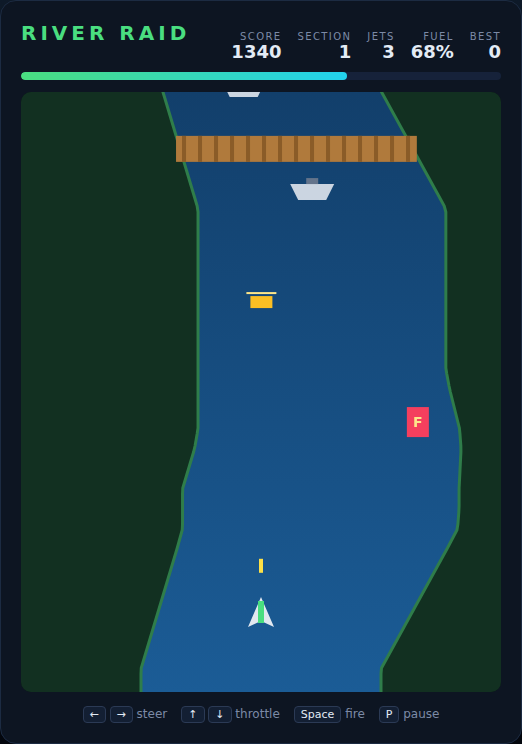
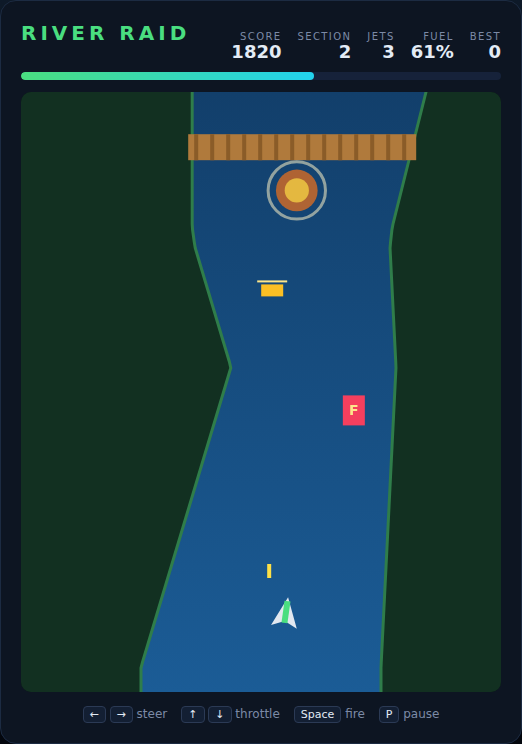
Polish River Raid: explosion feedback and a banking jet
- Destroyed targets and crashes now bloom a short orange/yellow blast.
  Blasts are decorative, so they age on the render clock rather than in
  step(), which keeps the simulation (and the tests that drive it) clean.
- The jet banks into its turns.
- Refresh the screenshot to show a bridge run, a kill and a shot in flight.

Claude-Session: https://claude.ai/code/session_016p9zduRNpubvt63n58JXxP

diff --git a/RiverRaid/game.js b/RiverRaid/game.js
@@ -63,6 +63,7 @@ var distance = 0;
 var terrain = [];                      // [{ left, right, bridge }]
 var entities = [];
 var missiles = [];
+var blasts = [];                       // purely decorative explosion rings
 
 var player = {
     x: CANVAS_W / 2,
@@ -300,11 +301,24 @@ function hits(missile, e) {
         && Math.abs(missile.x - e.x) < (missile.w + e.w) / 2;
 }
 
+function addBlast(x, worldY, size) {
+    blasts.push({ x: x, worldY: worldY, size: size, life: 0.45, max: 0.45 });
+}
+
 function destroy(e) {
     var index = entities.indexOf(e);
     if (index >= 0) entities.splice(index, 1);
     score += POINTS[e.type] || 0;
+    addBlast(e.x, e.worldY, Math.max(e.w, e.h) * (e.type === 'bridge' ? 0.5 : 0.9));
     if (e.type === 'bridge') section++;
+}
+
+/** Decorative only, so it ages on the render clock rather than inside step(). */
+function ageBlasts(dt) {
+    for (var i = blasts.length - 1; i >= 0; i--) {
+        blasts[i].life -= dt;
+        if (blasts[i].life <= 0) blasts.splice(i, 1);
+    }
 }
 
 function updateMissiles(dt) {
@@ -369,6 +383,7 @@ function resolvePlayer(dt) {
 
 function crash() {
     missiles.length = 0;
+    addBlast(player.x, distance, 34);
     lives--;
 
     if (lives <= 0) {
@@ -436,6 +451,7 @@ function startGame() {
     distance = 0;
     entities = [];
     missiles = [];
+    blasts = [];
     resetTerrain();
 
     player.vx = 0;
@@ -553,6 +569,29 @@ function draw() {
     for (var i = 0; i < entities.length; i++) drawEntity(entities[i]);
     for (var j = 0; j < missiles.length; j++) drawMissile(missiles[j]);
     if (state !== 'idle') drawPlayer();
+    for (var k = 0; k < blasts.length; k++) drawBlast(blasts[k]);
+}
+
+function drawBlast(b) {
+    var t = 1 - b.life / b.max;
+    var y = screenYFor(b.worldY);
+    ctx.save();
+    ctx.fillStyle = '#f97316';
+    ctx.globalAlpha = 1 - t;
+    ctx.beginPath();
+    ctx.arc(b.x, y, b.size * (0.35 + 0.55 * t), 0, Math.PI * 2);
+    ctx.fill();
+    ctx.fillStyle = '#fde047';
+    ctx.beginPath();
+    ctx.arc(b.x, y, b.size * 0.45 * (1 - t), 0, Math.PI * 2);
+    ctx.fill();
+    ctx.globalAlpha = (1 - t) * 0.8;
+    ctx.strokeStyle = '#fef3c7';
+    ctx.lineWidth = 3;
+    ctx.beginPath();
+    ctx.arc(b.x, y, b.size * (0.5 + 0.7 * t), 0, Math.PI * 2);
+    ctx.stroke();
+    ctx.restore();
 }
 
 function drawEntity(e) {
@@ -620,6 +659,7 @@ function drawPlayer() {
 
     ctx.save();
     ctx.translate(player.x, PLAYER_Y);
+    ctx.rotate(player.vx * 0.14);      // bank into the turn
     ctx.fillStyle = '#e2e8f0';
     ctx.beginPath();
     ctx.moveTo(0, -player.h / 2);
@@ -684,6 +724,7 @@ function frame(now) {
     var dt = (now - lastTime) / 1000;
     lastTime = now;
     step(dt);
+    ageBlasts(Math.min(dt, 0.05));
     draw();
     window.requestAnimationFrame(frame);
 }
